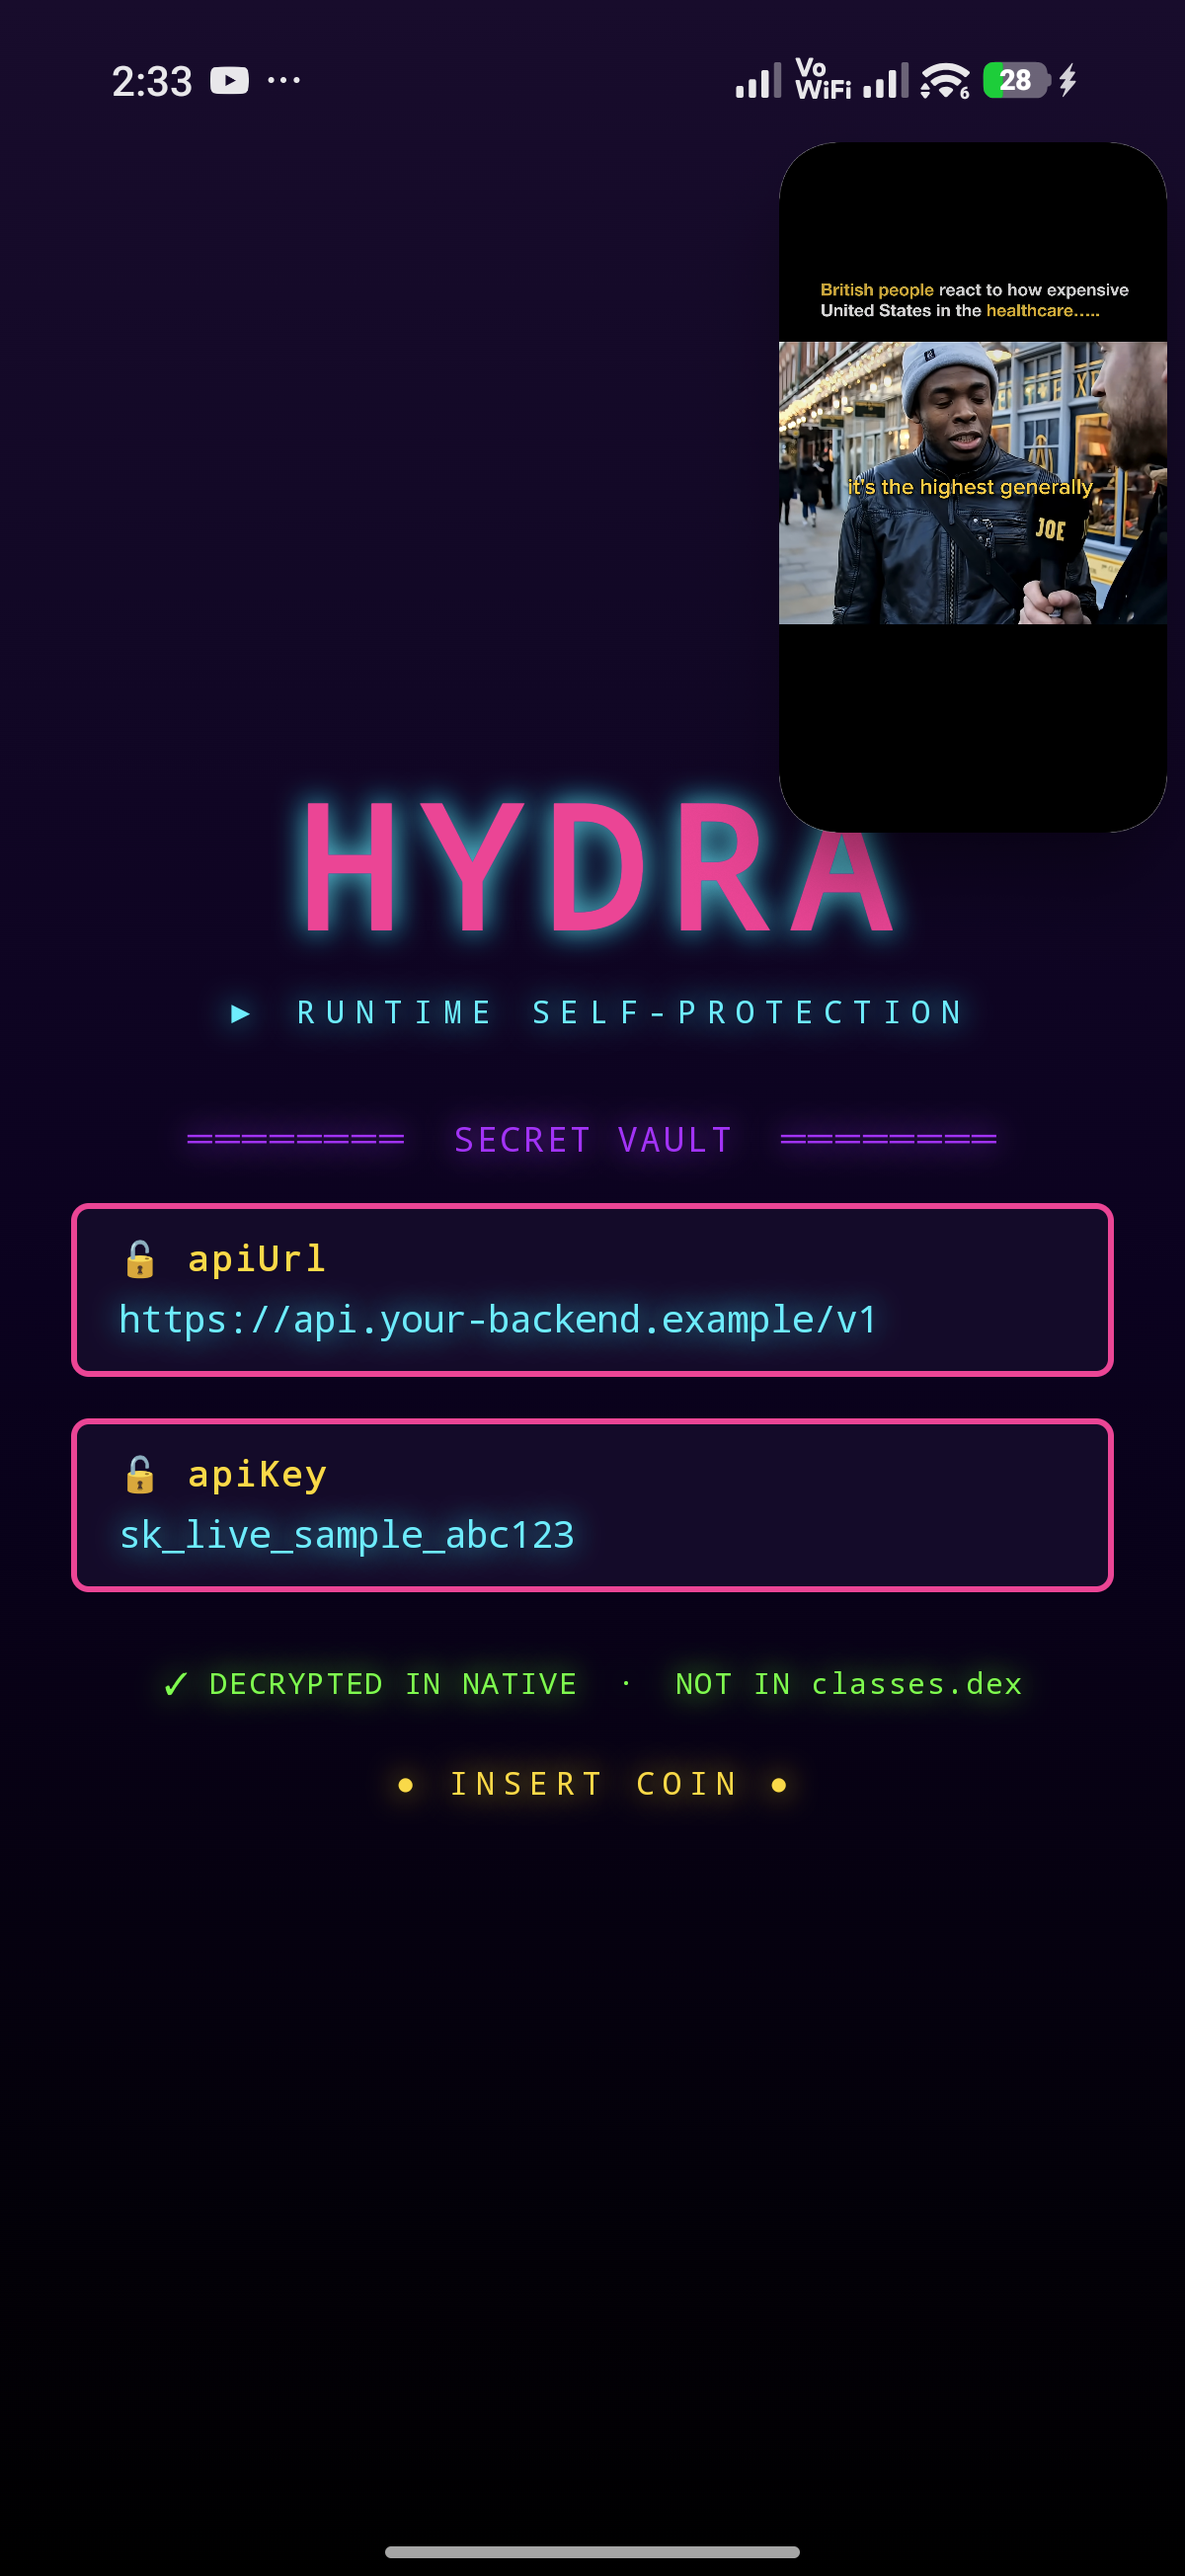
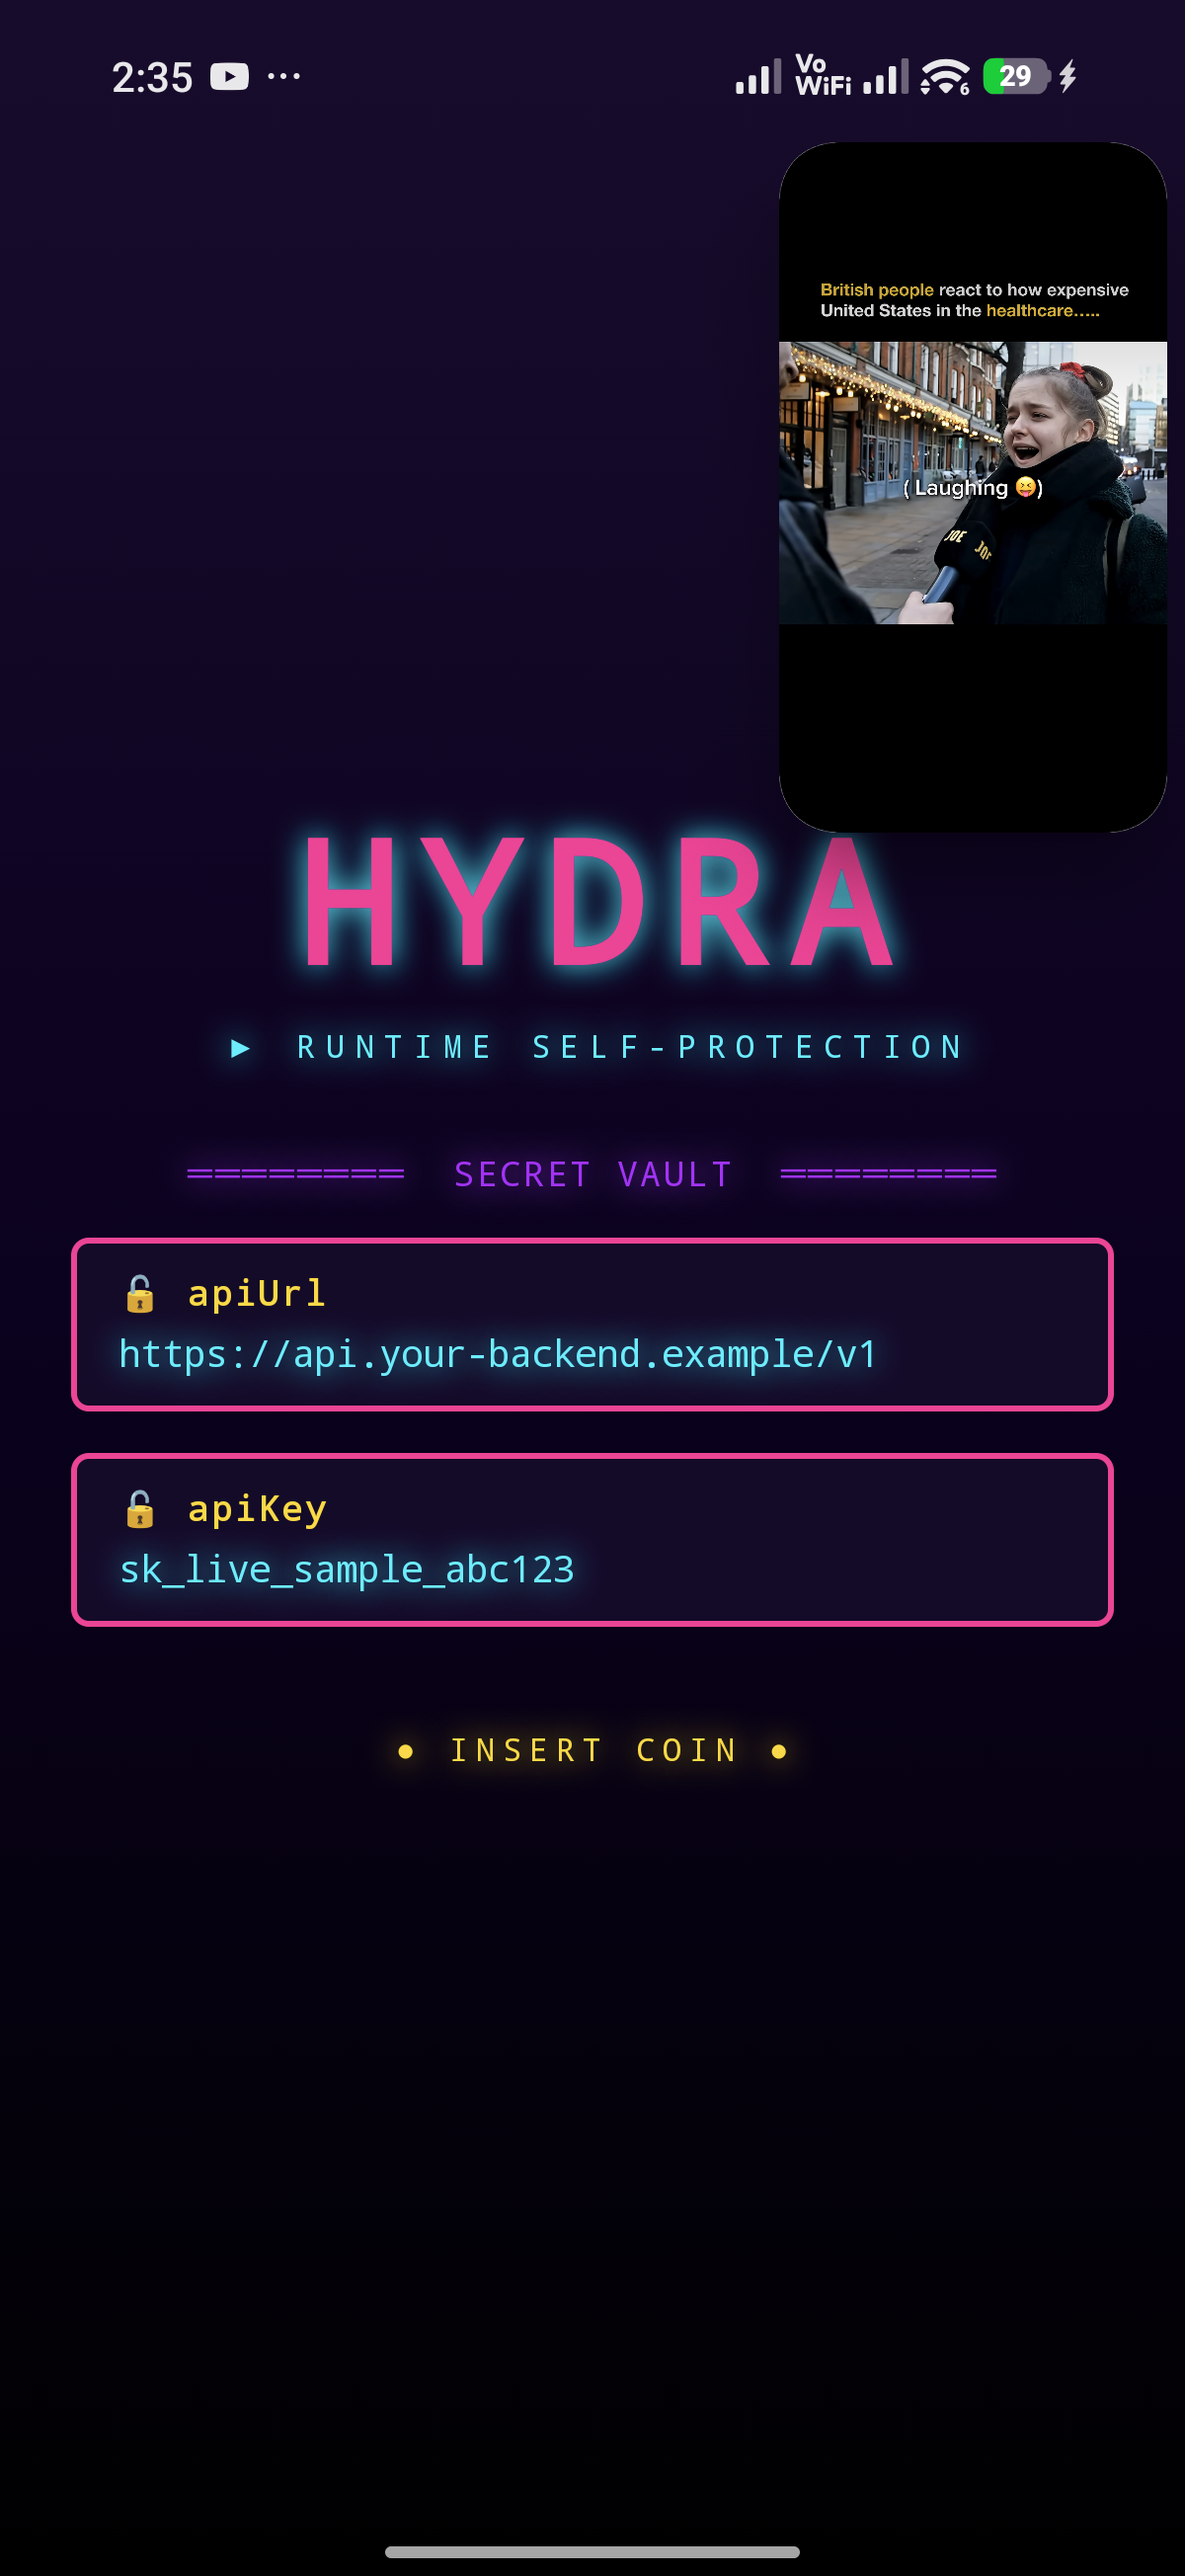
✨ minor improvement

diff --git a/sample/src/main/kotlin/com/example/hydrasample/MainActivity.kt b/sample/src/main/kotlin/com/example/hydrasample/MainActivity.kt
@@ -110,15 +110,6 @@ private fun ArcadeScreen() {
                 Spacer(Modifier.height(14.dp))
             }
 
-            Spacer(Modifier.height(10.dp))
-            BasicText(
-                "✓ DECRYPTED IN NATIVE  ·  NOT IN classes.dex",
-                style = TextStyle(
-                    color = Green, fontFamily = FontFamily.Monospace,
-                    fontSize = 11.sp, letterSpacing = 1.sp,
-                    textAlign = TextAlign.Center, shadow = glow(Green),
-                ),
-            )
             Spacer(Modifier.height(20.dp))
             BasicText(
                 "● INSERT COIN ●",
